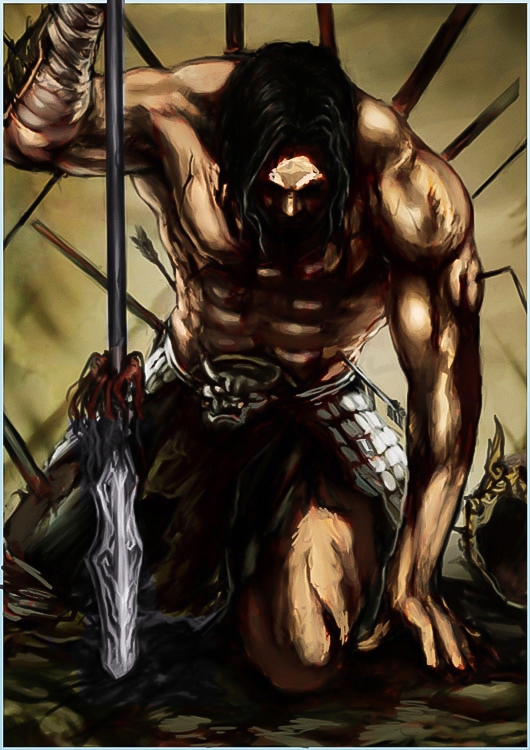
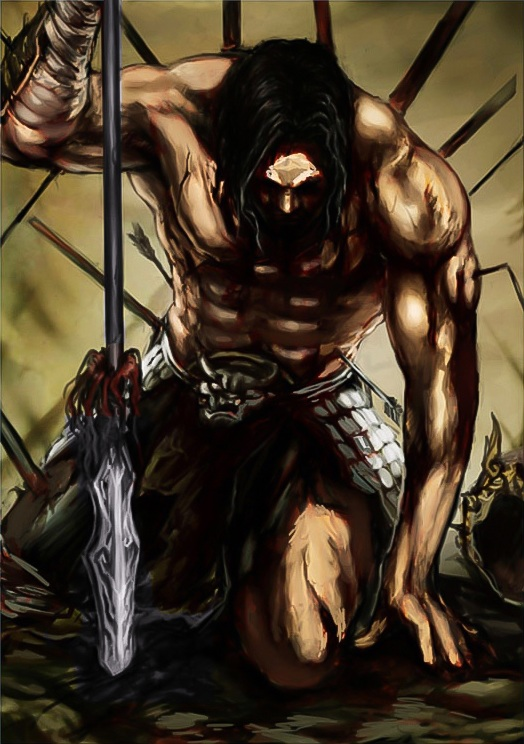
weapons page resize, clean up character art borders

diff --git a/src/styles/components.css b/src/styles/components.css
@@ -533,7 +533,7 @@
   border: 1px solid var(--c-border);
   border-radius: var(--r-md);
   content-visibility: auto;
-  contain-intrinsic-size: auto 110px;
+  contain-intrinsic-size: auto 180px;
 }
 
 .weapon__art {
@@ -550,14 +550,21 @@
   transform: scale(0.97);
 }
 
-/* Larger than the character list's 52px thumb: this one is being compared
-   against a card held in someone's hand, so the art has to be readable without
-   opening it. Same 5:7 crop. */
+/* Sized to be *matched*, not merely identified: several weapons share a hilt
+   and a colourway, so this has to settle "which one is in their hand" without
+   opening the lightbox. Hence a third of the viewport rather than a fixed thumb
+   — it grows with the phone, and the clamp stops it eating the rules text on a
+   narrow screen or ballooning past the 720px layout cap.
+
+   3:4 rather than the row thumb's 5:7: the scans are ~600x772, so this crops a
+   sliver instead of a band, and anchoring to the top keeps the weapon's own
+   illustration when it does. */
 .weapon__thumb {
   display: block;
-  width: 64px;
-  height: 90px;
+  width: clamp(96px, 30vw, 132px);
+  aspect-ratio: 3 / 4;
   object-fit: cover;
+  object-position: center top;
   border-radius: var(--r-sm);
   background: var(--c-surface-2);
 }
@@ -566,12 +573,12 @@
    label, which would not fit at this size. */
 .weapon__zoom {
   position: absolute;
-  right: 3px;
-  bottom: 3px;
+  right: 4px;
+  bottom: 4px;
   display: grid;
   place-items: center;
-  width: 18px;
-  height: 18px;
+  width: 22px;
+  height: 22px;
   border-radius: var(--r-sm);
   background: color-mix(in srgb, var(--c-bg) 70%, transparent);
   color: var(--c-text);

diff --git a/src/data/characters/qun.ts b/src/data/characters/qun.ts
@@ -274,6 +274,7 @@ export const qun: Character[] = [
           '2. If it is diamonds-suited, the player who was damaged can draw 2 cards from the deck\n' +
           '3. If it is clubs-suited, the player who attacked must discard 2 cards\n' +
           '4. If it is spades-suited, the player who attacked must flip their character card',
+        tags: ['heal', 'flip']
       },
       {
         name: '[Enforced Ability]',
@@ -316,6 +317,7 @@ export const qun: Character[] = [
           'Once per turn, during your action phase, you can choose to points duel another player.\n' +
           'If you win, then you can use unlimited number of [Attack] on that player, and your [Attack] ignores their Armour Equipment and has no range restrictions.\n' +
           'If you lose, you cannot attack for the rest of your turn',
+        tags: ['points duel']
       },
       {
         name: '[Enforced Ability]',

diff --git a/src/routes/WeaponListPage.tsx b/src/routes/WeaponListPage.tsx
@@ -81,7 +81,7 @@ export default function WeaponListPage() {
                         />
                         {hasArt && (
                           <span className="weapon__zoom" aria-hidden="true">
-                            <Icon name="expand" size={11} />
+                            <Icon name="expand" size={13} />
                           </span>
                         )}
                       </button>
